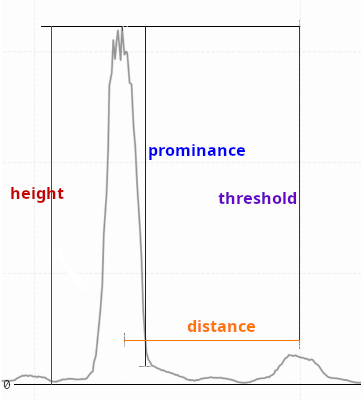
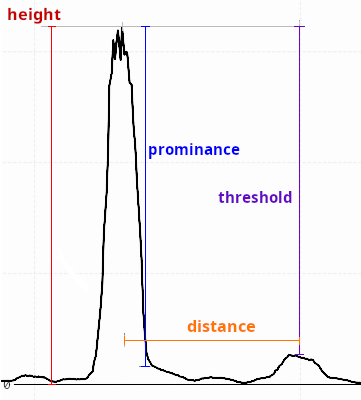
Update peak parameters dialog with units and new visual guide

diff --git a/csd_peak_identifier/gui/peak_parameters_dialog.py b/csd_peak_identifier/gui/peak_parameters_dialog.py
@@ -1,28 +1,44 @@
 from PySide6.QtWidgets import (
-    QDialog, QVBoxLayout, QFormLayout, QLineEdit, 
-    QPushButton, QHBoxLayout, QLabel, QMessageBox
+    QDialog,
+    QVBoxLayout,
+    QFormLayout,
+    QLineEdit,
+    QPushButton,
+    QHBoxLayout,
+    QLabel,
+    QMessageBox,
 )
 from PySide6.QtGui import QDoubleValidator, QPixmap
 from PySide6.QtCore import Qt
-from csd_peak_identifier.gui.constants import COLOR_BG, COLOR_TEXT, COLOR_GRID, FONT_SANS, FONT_MONO, get_resource_path
+from csd_peak_identifier.gui.constants import (
+    COLOR_BG,
+    COLOR_TEXT,
+    COLOR_GRID,
+    FONT_SANS,
+    FONT_MONO,
+    get_resource_path,
+)
 from csd_peak_identifier.logic import PeakParameters
+
 
 class PeakParametersDialog(QDialog):
     def __init__(self, current_params, parent=None):
         super().__init__(parent)
         self.setWindowTitle("PEAK SEARCH PARAMETERS")
-        self.setFixedWidth(500) # Increased width for image
+        self.setFixedWidth(500)  # Increased width for image
         self.setStyleSheet(f"background-color: {COLOR_BG}; color: {COLOR_TEXT};")
-        
+
         layout = QVBoxLayout(self)
         layout.setSpacing(15)
         layout.setContentsMargins(20, 20, 20, 20)
-        
+
         header = QLabel("ANALYSIS CONFIGURATION")
-        header.setStyleSheet(f"font-family: {FONT_SANS}; font-weight: bold; font-size: 16px;")
+        header.setStyleSheet(
+            f"font-family: {FONT_SANS}; font-weight: bold; font-size: 16px;"
+        )
         header.setAlignment(Qt.AlignCenter)
         layout.addWidget(header)
-        
+
         # Add visual guide image
         img_path = get_resource_path("data/peak_description.png")
         if img_path.exists():
@@ -32,64 +48,82 @@ class PeakParametersDialog(QDialog):
             scaled_pixmap = pixmap.scaledToWidth(460, Qt.SmoothTransformation)
             img_label.setPixmap(scaled_pixmap)
             img_label.setAlignment(Qt.AlignCenter)
-            img_label.setStyleSheet(f"border: 1px solid {COLOR_GRID}; background: white; padding: 5px;")
+            img_label.setStyleSheet(
+                f"border: 1px solid {COLOR_GRID}; background: white; padding: 5px;"
+            )
             layout.addWidget(img_label)
 
         form_layout = QFormLayout()
         form_layout.setLabelAlignment(Qt.AlignRight)
         form_layout.setSpacing(10)
-        
+
         validator = QDoubleValidator(self)
         validator.setNotation(QDoubleValidator.StandardNotation)
-        
+
         edit_style = f"font-family: {FONT_MONO}; padding: 5px; border: 1px solid {COLOR_GRID}; background: white;"
-        
+
         self.min_height = QLineEdit(str(current_params.min_height))
         self.min_height.setValidator(validator)
         self.min_height.setStyleSheet(edit_style)
-        
-        self.max_height = QLineEdit(str(current_params.max_height) if current_params.max_height is not None else "")
+
+        self.max_height = QLineEdit(
+            str(current_params.max_height)
+            if current_params.max_height is not None
+            else ""
+        )
         self.max_height.setValidator(validator)
         self.max_height.setPlaceholderText("None")
         self.max_height.setStyleSheet(edit_style)
-        
-        self.threshold = QLineEdit(str(current_params.threshold) if current_params.threshold is not None else "")
+
+        self.threshold = QLineEdit(
+            str(current_params.threshold)
+            if current_params.threshold is not None
+            else ""
+        )
         self.threshold.setValidator(validator)
         self.threshold.setPlaceholderText("None")
         self.threshold.setStyleSheet(edit_style)
-        
-        self.distance = QLineEdit(str(current_params.distance) if current_params.distance is not None else "")
+
+        self.distance = QLineEdit(
+            str(current_params.distance) if current_params.distance is not None else ""
+        )
         self.distance.setValidator(validator)
         self.distance.setPlaceholderText("None")
         self.distance.setStyleSheet(edit_style)
-        
-        self.prominence = QLineEdit(str(current_params.prominance) if current_params.prominance is not None else "")
+
+        self.prominence = QLineEdit(
+            str(current_params.prominance)
+            if current_params.prominance is not None
+            else ""
+        )
         self.prominence.setValidator(validator)
         self.prominence.setPlaceholderText("None")
         self.prominence.setStyleSheet(edit_style)
-        
+
         label_style = f"font-family: {FONT_SANS}; font-weight: bold; font-size: 11px;"
-        
+
         def add_param_row(label_text, widget):
             lbl = QLabel(label_text)
             lbl.setStyleSheet(label_style)
             form_layout.addRow(lbl, widget)
-            
-        add_param_row("MIN HEIGHT:", self.min_height)
-        add_param_row("MAX HEIGHT:", self.max_height)
-        add_param_row("THRESHOLD:", self.threshold)
-        add_param_row("DISTANCE:", self.distance)
-        add_param_row("PROMINENCE:", self.prominence)
-        
+
+        add_param_row("MIN HEIGHT (μA):", self.min_height)
+        add_param_row("MAX HEIGHT (μA):", self.max_height)
+        add_param_row("THRESHOLD (μA):", self.threshold)
+        add_param_row("DISTANCE (m/q):", self.distance)
+        add_param_row("PROMINENCE (μA):", self.prominence)
+
         layout.addLayout(form_layout)
-        
+
         info_label = QLabel("(Leave empty for 'None' / Auto-calculate)")
-        info_label.setStyleSheet(f"font-family: {FONT_SANS}; font-size: 9px; color: #666666;")
+        info_label.setStyleSheet(
+            f"font-family: {FONT_SANS}; font-size: 9px; color: #666666;"
+        )
         info_label.setAlignment(Qt.AlignCenter)
         layout.addWidget(info_label)
-        
+
         btn_layout = QHBoxLayout()
-        self.save_btn = QPushButton("APPLY & SAVE")
+        self.save_btn = QPushButton("SAVE")
         self.save_btn.setStyleSheet(f"""
             QPushButton {{
                 font-family: {FONT_SANS}; font-weight: bold; padding: 10px;
@@ -98,7 +132,7 @@ class PeakParametersDialog(QDialog):
             QPushButton:hover {{ background-color: #444444; }}
         """)
         self.save_btn.clicked.connect(self.accept)
-        
+
         self.cancel_btn = QPushButton("CANCEL")
         self.cancel_btn.setStyleSheet(f"""
             QPushButton {{
@@ -108,7 +142,7 @@ class PeakParametersDialog(QDialog):
             QPushButton:hover {{ background-color: #bbbbbb; }}
         """)
         self.cancel_btn.clicked.connect(self.reject)
-        
+
         btn_layout.addWidget(self.save_btn)
         btn_layout.addWidget(self.cancel_btn)
         layout.addLayout(btn_layout)
@@ -117,11 +151,13 @@ class PeakParametersDialog(QDialog):
         def parse_float(le):
             txt = le.text().strip()
             return float(txt) if txt else None
-            
+
         return PeakParameters(
             min_height=parse_float(self.min_height) or 0.2,
             max_height=parse_float(self.max_height),
             threshold=parse_float(self.threshold),
             distance=parse_float(self.distance),
-            prominance=parse_float(self.prominence) # Note: logic.py spelling is 'prominance'
+            prominance=parse_float(
+                self.prominence
+            ),  # Note: logic.py spelling is 'prominance'
         )